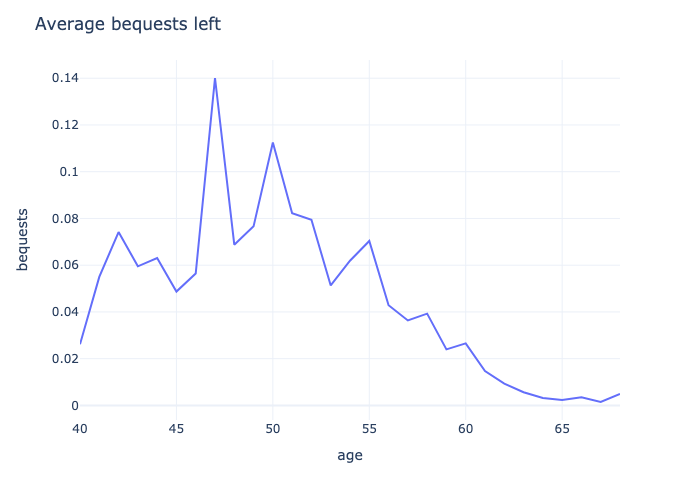
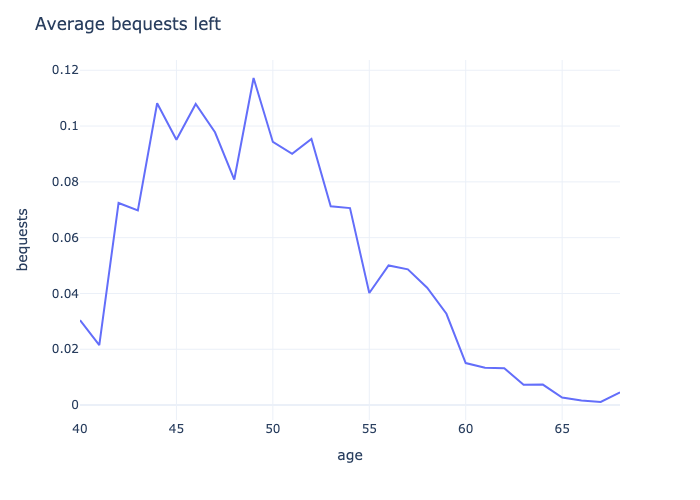
add error to output. small changes to terminal condiiton, whioch is likely wrong

diff --git a/ps5/main_ls_bequests.py b/ps5/main_ls_bequests.py
@@ -28,36 +28,15 @@ def equilibrium_distance(guess, shocks, params, phi1):
 	policies = lc_policies(params, income_states, params["transition_matrix"], bequest_shock_probs, phi1, guess)	
 
 	hh_panel_y, hh_panel_a, hh_panel_s, hh_panel_c = simulate_hh(params["n_hh"], income_states, shocks, policies, hh_bequests, params)
-
+	
 	death_ix = pd.DataFrame(hh_panel_s).apply(pd.Series.last_valid_index) 
-	bequests = hh_panel_s[death_ix, death_ix.index]
+	bequests = hh_panel_s[np.nan_to_num(death_ix,68).astype(int), death_ix.index] # TODO: why are there nan here?
 
 	pb = bequests[bequests == 0].shape[0] / bequests.shape[0]
 	mu = np.mean(bequests[bequests != 0])
 	sigma2 = np.var(bequests[bequests != 0])
 
 	return(np.sum((guess - np.array([pb, mu, sigma2]))**2), hh_panel_y, hh_panel_a, hh_panel_s, hh_panel_c, bequests, death_ix)
-
-
-
-params = calibrate_life_cyc(0.97, phi1 = 0)
-
-economy_shocks = create_shock_panel(params, params["transition_matrix"], params["min_age"], params["max_age"])
-
-guess0 = np.array([ 0.4,  3., 10])
-
-phi1  = 0
-
-diff, hh_panel_y, hh_panel_a, hh_panel_s, hh_panel_c, bequests, death_ix = equilibrium_distance(guess0, economy_shocks, params, phi1)
-
-# TODO return economy variables for plotting. Turn itno lambda funciton. 
-
-outcome = sp.optimize.minimize(fun = lambda x: equilibrium_distance(x, economy_shocks, params, phi1)[0], x0 = guess0, method = "Nelder-Mead")
-
-equilibrium_vector_phi1 = outcome["x"]
-
-diff, hh_panel_y, hh_panel_a, hh_panel_s, hh_panel_c, bequests, death_ix = equilibrium_distance(equilibrium_vector_phi1, economy_shocks, params, phi1)
-
 
 def plot_series(vector, label_dict):
 	df = pd.DataFrame(np.nanmean(vector, axis = 1), columns = ["yvar"])
@@ -71,8 +50,18 @@ def gini(x):
 		total += np.nansum(np.abs(xi - x[i:]))
 	return total / (len(x)**2 * np.nanmean(x))
 
+def plot_bequests(phi1):
+	params = calibrate_life_cyc(0.97, phi1)
+	guess0 = np.array([ 0.4,  3., 10])
+	economy_shocks = create_shock_panel(params, params["transition_matrix"], params["min_age"], params["max_age"])
 
-def plot_bequests(phi1, equilibrium_vector, economy_shocks, params):
+	outcome = sp.optimize.minimize(fun = lambda x: equilibrium_distance(x, economy_shocks, params, phi1)[0], x0 = guess0, method = "Nelder-Mead")
+	equilibrium_vector = outcome["x"]
+	error = outcome["fun"]
+
+	np.savetxt(f'figures/eq_vec_phi1_{phi1}.csv', equilibrium_vector, delimiter=',')
+	np.savetxt(f'figures/nm_error_{phi1}.csv', error, delimiter=',')
+
 	diff, hh_panel_y, hh_panel_a, hh_panel_s, hh_panel_c, bequests, death_ix = equilibrium_distance(equilibrium_vector, economy_shocks, params, phi1)
 
 	fig = plot_series(hh_panel_c, dict(age = "Age", yvar="# Goods"))
@@ -110,6 +99,7 @@ def plot_bequests(phi1, equilibrium_vector, economy_shocks, params):
 	fig.update_layout(title = "Gini")
 	fig.write_image(f'figures/gini_{phi1}.png')
 
+	# TODO make relative to total
 	pct99 = np.nanpercentile(hh_panel_a, 99, axis = 1)
 	pct95 = np.nanpercentile(hh_panel_a, 95, axis = 1)
 	pct80 = np.nanpercentile(hh_panel_a, 80, axis = 1)
@@ -122,4 +112,7 @@ def plot_bequests(phi1, equilibrium_vector, economy_shocks, params):
 	fig.write_image(f'figures/inequality_{phi1}.png')
 	return	
 
-plot_bequests(phi1, equilibrium_vector_phi1, economy_shocks, params)
+plot_bequests(phi1 = 0)
+
+plot_bequests(-10)
+

diff --git a/src/lifecycle/lc_aux_funcs.py b/src/lifecycle/lc_aux_funcs.py
@@ -40,7 +40,7 @@ def lc_policies(params, income_states_matrix, transition_matrix, bequest_shock_p
 		
 		if t + min_age == max_work_age:
 			
-			Ecf = bequested_ecf(mu_cons_fut, pol, guess, bequest_shock_probs, transition_matrix, params)
+			Ecf = bequested_ecf(phi1, Ecf,mu_beq_fut, pol, guess, bequest_shock_probs, transition_matrix, params)
 
 		pol = EGM(Ecf, disc_factor, params["exog_grid"], income_states, pol,transition_matrix, params)
 		pol_mats.append(pol)
@@ -50,9 +50,8 @@ def lc_policies(params, income_states_matrix, transition_matrix, bequest_shock_p
 
 	return(pol_mats)
 
-def bequested_ecf(mu_cons_fut, pol, guess, bequest_shock_probs, transition_matrix, params):
-	mu_fut_no_bq = np.tile(mu_cons_fut[:,0], (20,1)).T # This with probability guess[0]
-	# TODO: make work for phi1 > 0
+def bequested_ecf(phi1, Ecf_no_beq, mu_beq_fut, pol, guess, bequest_shock_probs, transition_matrix, params):
+	
 	G_ret = params["determ_inc"].income.iloc[-1] * params["pensions_rr"]
 	
 	# Policy maps from asset today to asset tomorrow
@@ -70,10 +69,15 @@ def bequested_ecf(mu_cons_fut, pol, guess, bequest_shock_probs, transition_matri
 
 	mu_cons_fut = ((1+params["rate"]) * asset_grid_beq + bequests + G_ret - pol_beq)**(-params["risk_aver"])
 
-	mu_fut = (1-guess[0]) * mu_fut_no_bq + (guess[0])*(mu_cons_fut)
+	Bs = (1-params["estate_tax"]) * asset_grid_beq
+	mu_beq_fut = (1 - params["estate_tax"]) * (1 - params["risk_aver"]) * phi1 *(1 + Bs/params["phi2"])**(-params["risk_aver"])/params["phi2"]
+
+	mu_fut = mu_cons_fut + mu_beq_fut 
 
 	Ecf = np.matmul(mu_fut, bequest_shock_probs.T) # 1000 x 1 object
 	Ecf = np.tile(Ecf, (transition_matrix.shape[0],1)).T # Convert back to "normal" shape
+	# Combine with no bequest case
+	Ecf = Ecf_no_beq * (1-guess[0]) + guess[0] * Ecf
 	return(Ecf)
 
 def create_income_states(mltp_shock, det_income, params):

diff --git a/src/lifecycle/lc_calibrate.py b/src/lifecycle/lc_calibrate.py
@@ -1,6 +1,7 @@
 import numpy as np
 import pandas as pd
 from src.tauchenhussey import tauchenhussey, floden_basesigma 
+import ipdb
 
 def calibrate_life_cyc(income_permamence, phi1):
 	'''
@@ -53,8 +54,6 @@ def calibrate_life_cyc(income_permamence, phi1):
 	
 	params["exog_grid"] = np.repeat(np.expand_dims(params["action_states"], axis = 1), params["income_shock"].shape[0], axis = 1)
 
-	np.kron(params["income_shock"], params["bequest_grid"]).flatten()
-
 	params["min_age"] = params["determ_inc"].age.min()
 	params["max_work_age"] = params["determ_inc"].age.max()
 	params["max_age"] =  params["max_work_age"] + params["N_ret"]
@@ -64,13 +63,14 @@ def calibrate_life_cyc(income_permamence, phi1):
 	params["terminal_income_states"] = np.ones(params["income_shock"].shape[0]) * G_ret
 
 	if phi1 == 0:
-		params["terminal_policy"] = np.zeros((params["action_size"], params["income_shock"].shape[0])) # Last policy is to save nothing
+		params["terminal_policy"] = np.zeros((params["action_size"], params["income_shock"].shape[0])) # Last policy is to save nothing. 1000 by 10
 		return(params)
 		
 	# Solve for terminal policy
-	k = ((1-params["estate_tax"]) * (1 - params["risk_aver"]) * phi1/params["phi2"])**(-1/params["risk_aver"])
+	# icnome shock 10 by 1
+	k = ((1-params["estate_tax"]) * (1 - params["risk_aver"]) * phi1/params["phi2"])**(-1/params["risk_aver"]) # scalar
 
-	terminal_policy = (-k + asset_grid * (1 + params["rate"]) + income_states)/(1 + (1-params["estate_tax"])/(params["phi2"]) * k)
-	terminal_policy 
+	terminal_policy = (-k + params["exog_grid"] * (1 + params["rate"]) + G_ret * np.ones(params["exog_grid"].shape))/(1 + (1-params["estate_tax"])/(params["phi2"]) * k)
+	params["terminal_policy"] = terminal_policy
 
 	return(params)
